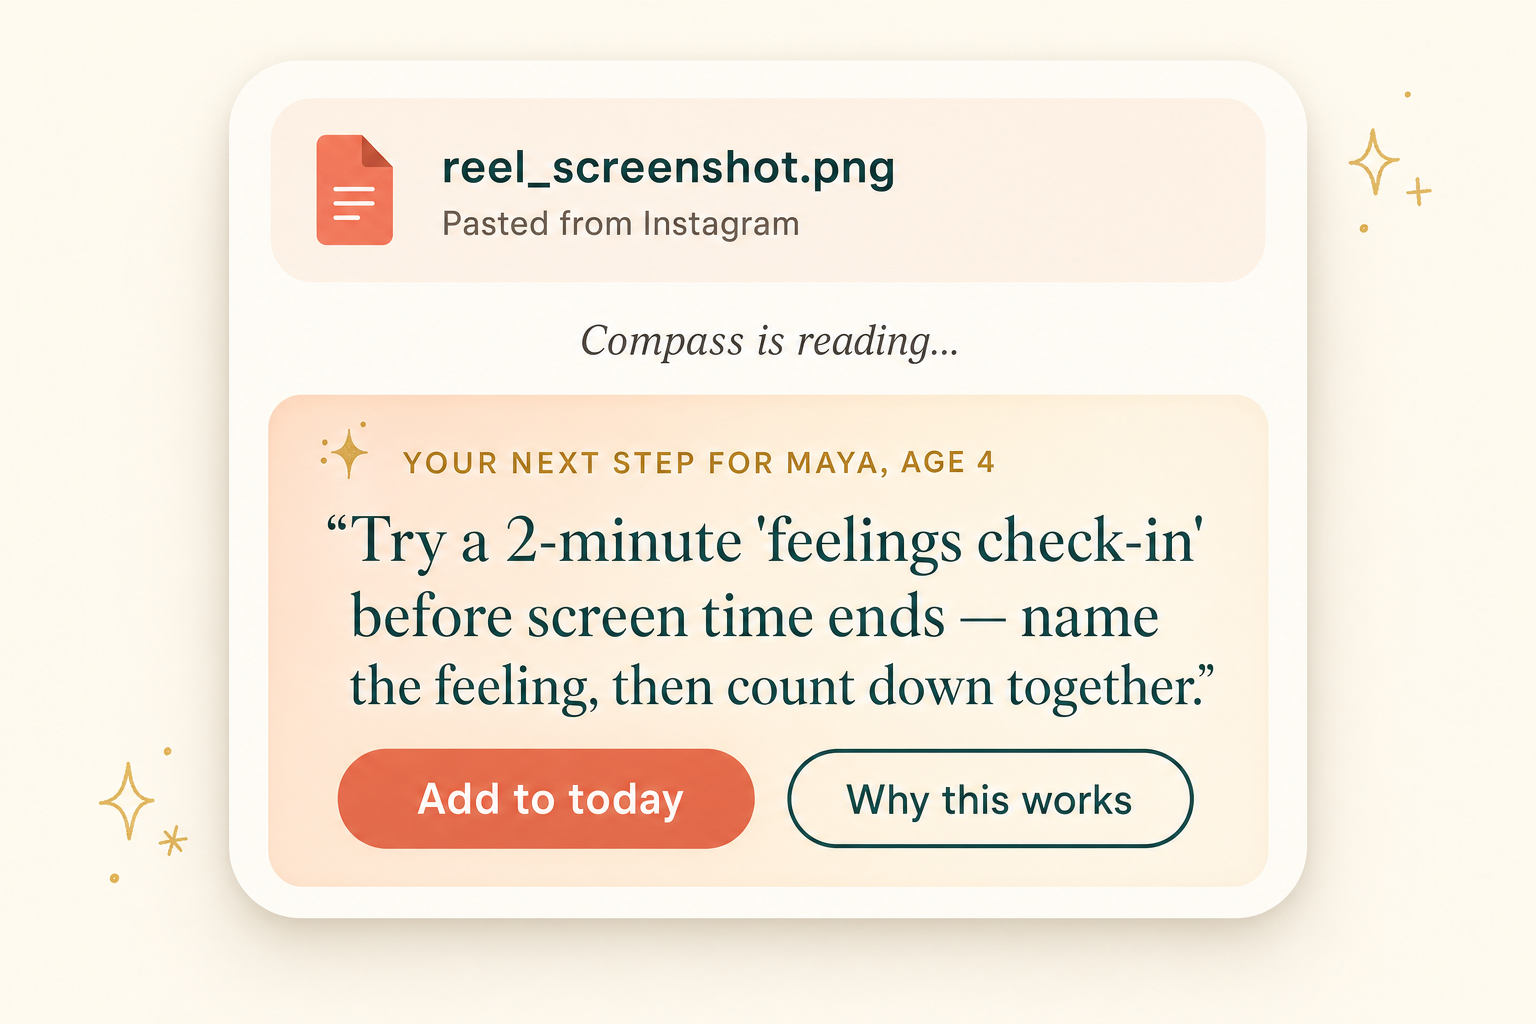
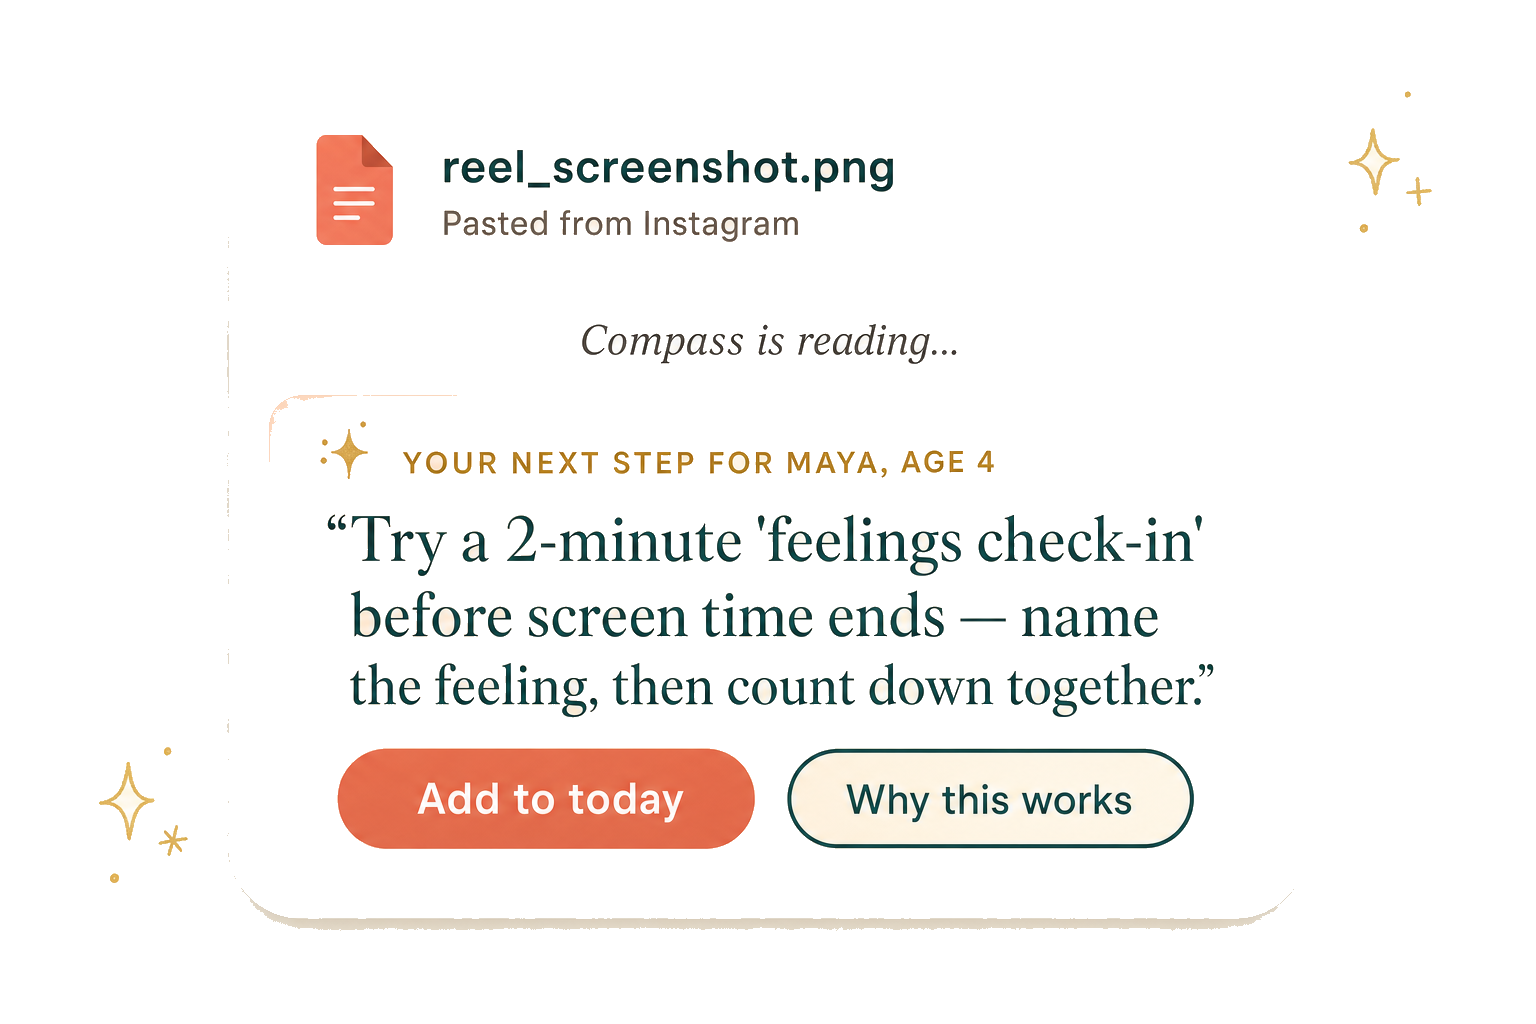
feat(landing): key feature mockups to transparent + remove Why-now section
Key the generated feature cards' backgrounds out to transparent so they float seamlessly
on the page cream (the model's baked cream didn't match #fbf7f0). Remove the Why-now stats
block; keep the testimonial as its own section.

diff --git a/src/app/page.tsx b/src/app/page.tsx
@@ -17,7 +17,7 @@ export default function Home() {
         <PasteSection />
         <WeeklyDrop />
         <VoiceCoach />
-        <WhyNow />
+        <Testimonial />
         <Pricing />
       </main>
       <SiteFooter />
@@ -374,7 +374,7 @@ function PasteCard() {
    A generated "This week for <child>" card on the left; descriptive copy on the right. */
 function WeeklyDrop() {
   return (
-    <section className="py-16 sm:py-24 bg-cream-deep/60 border-y border-teal/10">
+    <section className="py-16 sm:py-24">
       <div className="mx-auto max-w-6xl px-5 grid lg:grid-cols-2 gap-12 items-center">
         {/* the weekly-feed card */}
         <Image
@@ -434,76 +434,11 @@ function VoiceCoach() {
   );
 }
 
-/* ─────────────────────────────────────────── Why now (stats + testimonial) */
-const STATS = [
-  {
-    value: "1st",
-    label: "in a decade",
-    color: "#e1785c",
-    tint: "rgba(225,120,92,0.12)",
-    body: "update to AAP screen-time guidance — away from rigid limits, toward quality and context.",
-  },
-  {
-    value: "~50%",
-    label: "of parents",
-    color: "#6f9a7c",
-    tint: "rgba(143,176,154,0.18)",
-    body: "reach for screens to manage difficult behavior — usually without a plan.",
-  },
-  {
-    value: "2–8",
-    label: "the window",
-    color: "#2f6360",
-    tint: "rgba(47,99,96,0.12)",
-    body: "the ages where intentional habits take root — exactly where Compass focuses.",
-  },
-];
-
-function WhyNow() {
+/* ─────────────────────────────────────────── Testimonial */
+function Testimonial() {
   return (
-    <section className="py-16 sm:py-24 bg-cream-deep/60 border-y border-teal/10">
+    <section className="py-16 sm:py-24">
       <div className="mx-auto max-w-5xl px-5">
-        <p className="eyebrow text-center text-sage">Why now</p>
-        <h2 className="mt-2 text-center text-3xl sm:text-4xl font-semibold leading-tight">
-          The guidance changed. The know-how didn&apos;t follow.
-        </h2>
-        <p className="mt-5 text-center text-ink/70 max-w-2xl mx-auto leading-relaxed">
-          In 2026, the American Academy of Pediatrics updated its screen-time guidance for the
-          first time in a decade — moving away from rigid time limits toward quality, context,
-          and conversation. That shift demands exactly what Compass provides: personalized,
-          context-aware guidance for your specific child.
-        </p>
-
-        <div className="mt-12 grid gap-5 sm:grid-cols-3">
-          {STATS.map((s) => (
-            <div
-              key={s.value}
-              className="group relative overflow-hidden rounded-[1.4rem] border border-teal/10 bg-cream-card p-7 shadow-[var(--shadow-card)] transition duration-300 hover:-translate-y-1 hover:shadow-[var(--shadow-soft)]"
-            >
-              {/* colored top accent + a soft glow in the corner for depth */}
-              <span aria-hidden className="absolute inset-x-0 top-0 h-1.5" style={{ background: s.color }} />
-              <span
-                aria-hidden
-                className="absolute -right-10 -top-10 h-28 w-28 rounded-full blur-2xl transition-opacity duration-300 group-hover:opacity-100"
-                style={{ background: s.tint, opacity: 0.85 }}
-              />
-              <p
-                className="relative text-5xl font-semibold leading-none"
-                style={{ fontFamily: "var(--font-display)", color: s.color }}
-              >
-                {s.value}
-              </p>
-              <p
-                className="relative mt-2 text-[0.7rem] font-bold uppercase tracking-[0.14em]"
-                style={{ color: s.color }}
-              >
-                {s.label}
-              </p>
-              <p className="relative mt-3 text-sm leading-relaxed text-ink/70">{s.body}</p>
-            </div>
-          ))}
-        </div>
-
         {/* the testimonial, centered on a warm gradient card */}
         <figure
           className="relative mt-12 rounded-[1.6rem] border border-teal/10 px-8 py-10 sm:px-14 sm:py-12 text-center shadow-[var(--shadow-soft)]"
